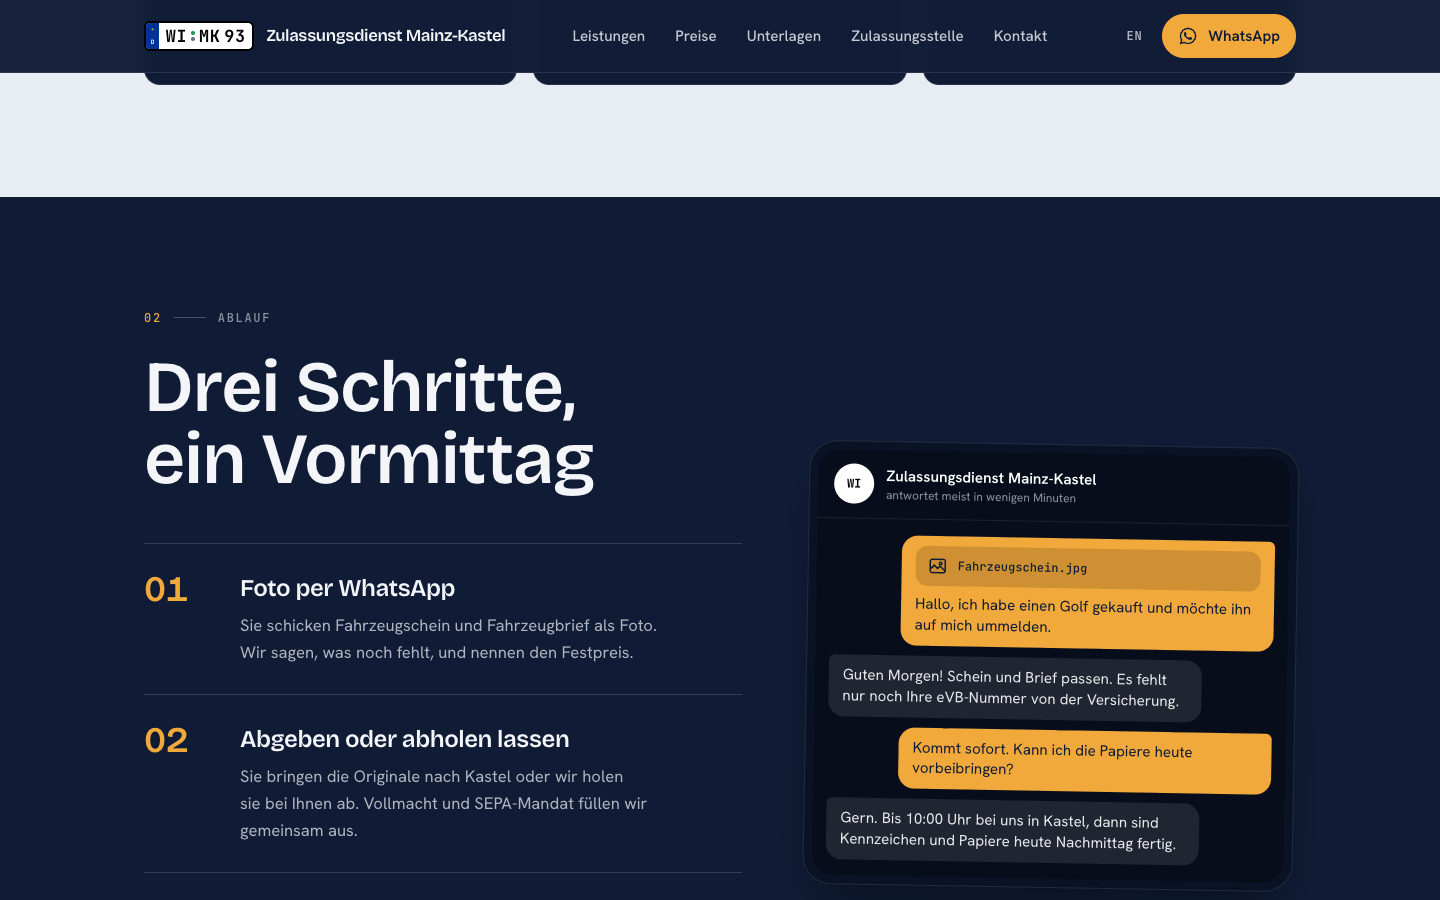
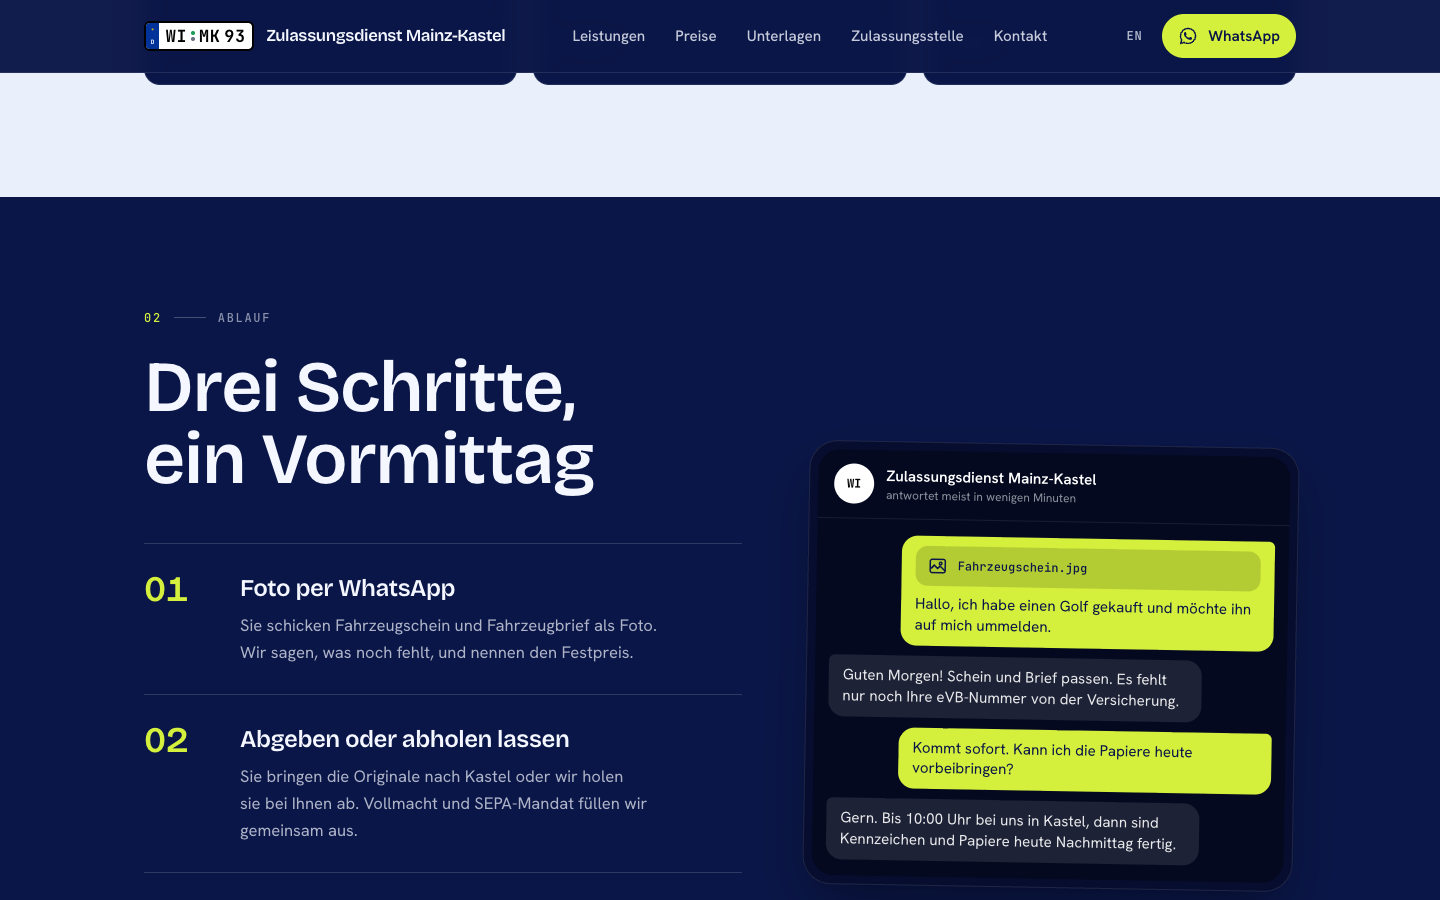
Switch colours to deep blue with a lime accent
Colouring taken from the Kelder reference: a deep blue that brightens to
royal blue in the hero, pale-blue light bands and lime-yellow for the main
buttons and highlights. The light on the 3D plate is now a cool white-blue
set by --plate-glow, so the plate keeps its true colours.

diff --git a/src/app/globals.css b/src/app/globals.css
@@ -3,18 +3,14 @@
   themes: false;
 }
 
-/* Palette "Mitternacht & Bernstein": two main colours and one accent.
-     dark   #101C36  midnight navy
-     light  #E8ECF3  a pale tone of the same blue (not white, not beige)
-     accent #F2A93B  amber
-   Every dark and light tone is the same blue hue at a different lightness, and amber is its
-   opposite on the colour wheel, so the set holds together. It also picks up the licence plate:
-   the navy sits with the plate's EU blue, the amber with its yellow stars.
-
+/* Palette "Tiefblau & Limette": two main colours and one accent.
+     dark   #0A1647  deep blue, brightening to royal blue in the hero
+     light  #E9F0FC  a pale tone of the same blue
+     accent #D4F03C  lime yellow
    The page alternates light and dark bands. Light is the default theme ("zmk").
    Any element with data-theme="zmk-dark" switches itself and everything inside it to the
-   dark set, so the same class names work in both. Amber is only used as a fill on dark,
-   where it reads clearly; on light bands the marks and buttons are navy.
+   dark set, so the same class names work in both. Lime is only used as a fill on dark,
+   where it reads clearly; on light bands the marks and buttons are blue.
    The three values are also in src/lib/site.ts for the share image. */
 @plugin "daisyui/theme" {
   name: "zmk";
@@ -22,26 +18,26 @@
   prefersdark: false;
   color-scheme: light;
 
-  --color-base-100: #e8ecf3; /* light band */
-  --color-base-200: #dce2ec; /* panels on a light band */
-  --color-base-300: #cbd3e0;
-  --color-base-content: #101c36;
-  --color-primary: #101c36; /* links, labels, small marks */
-  --color-primary-content: #f3f5f9;
-  --color-secondary: #f2a93b; /* amber highlight */
-  --color-secondary-content: #101c36;
-  --color-accent: #101c36; /* fill of the main action */
-  --color-accent-content: #f3f5f9;
-  --color-neutral: #101c36;
-  --color-neutral-content: #f3f5f9;
-  --color-info: #101c36;
-  --color-info-content: #f3f5f9;
-  --color-success: #101c36;
-  --color-success-content: #f3f5f9;
-  --color-warning: #f2a93b;
-  --color-warning-content: #101c36;
+  --color-base-100: #e9f0fc; /* light band */
+  --color-base-200: #dbe6f8; /* panels on a light band */
+  --color-base-300: #c8d8f1;
+  --color-base-content: #0a1647;
+  --color-primary: #1740c4; /* links, labels, small marks */
+  --color-primary-content: #f4f7ff;
+  --color-secondary: #d4f03c; /* lime highlight */
+  --color-secondary-content: #0a1647;
+  --color-accent: #1740c4; /* fill of the main action */
+  --color-accent-content: #f4f7ff;
+  --color-neutral: #0a1647;
+  --color-neutral-content: #f4f7ff;
+  --color-info: #1740c4;
+  --color-info-content: #f4f7ff;
+  --color-success: #1740c4;
+  --color-success-content: #f4f7ff;
+  --color-warning: #d4f03c;
+  --color-warning-content: #0a1647;
   --color-error: oklch(52% 0.2 27);
-  --color-error-content: #f3f5f9;
+  --color-error-content: #f4f7ff;
 
   --radius-selector: 1rem;
   --radius-field: 0.5rem;
@@ -62,26 +58,26 @@
   prefersdark: false;
   color-scheme: dark;
 
-  --color-base-100: #101c36; /* dark band */
-  --color-base-200: #1a2847; /* cards and panels on a dark band */
-  --color-base-300: #26365b;
-  --color-base-content: #f3f5f9;
-  --color-primary: #f2a93b;
-  --color-primary-content: #101c36;
-  --color-secondary: #f2a93b;
-  --color-secondary-content: #101c36;
-  --color-accent: #f2a93b;
-  --color-accent-content: #101c36;
-  --color-neutral: #0a1326; /* hero, footer, call-to-action: the deepest navy */
-  --color-neutral-content: #f3f5f9;
-  --color-info: #f2a93b;
-  --color-info-content: #101c36;
-  --color-success: #f2a93b;
-  --color-success-content: #101c36;
-  --color-warning: #f2a93b;
-  --color-warning-content: #101c36;
-  --color-error: oklch(72% 0.18 25);
-  --color-error-content: #101c36;
+  --color-base-100: #0a1647; /* dark band */
+  --color-base-200: #13235e; /* cards and panels on a dark band */
+  --color-base-300: #1d327a;
+  --color-base-content: #f4f7ff;
+  --color-primary: #d4f03c;
+  --color-primary-content: #0a1647;
+  --color-secondary: #d4f03c;
+  --color-secondary-content: #0a1647;
+  --color-accent: #d4f03c;
+  --color-accent-content: #0a1647;
+  --color-neutral: #060d2e; /* footer and the top of the hero: the deepest blue */
+  --color-neutral-content: #f4f7ff;
+  --color-info: #d4f03c;
+  --color-info-content: #0a1647;
+  --color-success: #d4f03c;
+  --color-success-content: #0a1647;
+  --color-warning: #d4f03c;
+  --color-warning-content: #0a1647;
+  --color-error: oklch(74% 0.17 25);
+  --color-error-content: #0a1647;
 
   --radius-selector: 1rem;
   --radius-field: 0.5rem;
@@ -94,6 +90,11 @@
 
   --depth: 0;
   --noise: 0;
+}
+
+/* Light on and behind the 3D plate: a cool white-blue, so the plate keeps its true colours. */
+:root {
+  --plate-glow: #9cc0ff;
 }
 
 @theme inline {
@@ -201,12 +202,11 @@ summary {
   }
 }
 
-/* The dark hero ground: two soft lights and a fine grid that drifts slowly. */
+/* The dark hero ground: deep blue brightening downward, and a fine grid that drifts slowly. */
 .hero-ground {
   background:
-    radial-gradient(64rem 36rem at 80% -8%, color-mix(in oklch, var(--color-secondary) 30%, transparent), transparent 62%),
-    radial-gradient(40rem 26rem at 4% 108%, color-mix(in oklch, #3d6bff 22%, transparent), transparent 60%),
-    var(--color-neutral);
+    radial-gradient(70rem 30rem at 50% 118%, rgb(120 170 255 / 0.5), transparent 68%),
+    linear-gradient(180deg, #050b2b 0%, #0a1b63 46%, #1846c9 100%);
 }
 
 .hero-grid {

diff --git a/src/components/hero/PlateScene.tsx b/src/components/hero/PlateScene.tsx
@@ -81,8 +81,9 @@ export default function PlateScene({ spec, flipKey, accent, onReady, onFail }: P
       }
 
       const reduceMotion = window.matchMedia("(prefers-reduced-motion: reduce)").matches;
-      // The light on the plate follows the theme's accent where it is a plain hex colour.
-      const themeAccent = getComputedStyle(el).getPropertyValue("--color-secondary").trim();
+      // The light on the plate comes from the theme: --plate-glow if set, else the accent.
+      const style = getComputedStyle(el);
+      const themeAccent = (style.getPropertyValue("--plate-glow") || style.getPropertyValue("--color-secondary")).trim();
       if (/^#[0-9a-f]{3,8}$/i.test(themeAccent)) latest.current.accent = themeAccent;
       const coarse = window.matchMedia("(pointer: coarse)").matches;
 

diff --git a/src/lib/site.ts b/src/lib/site.ts
@@ -17,10 +17,10 @@ export const site = {
   name: "Zulassungsdienst Mainz-Kastel",
   shortName: "Zulassungsdienst Kastel",
   /**
-   * Brand colours, palette "Mitternacht & Bernstein": navy and pale-blue bands in turn, amber accent.
+   * Brand colours, palette "Tiefblau & Limette": deep-blue and pale-blue bands in turn, lime accent.
    * The theme in src/app/globals.css sets the same three values; change both together.
    */
-  colors: { dark: "#101C36", light: "#E8ECF3", accent: "#F2A93B" },
+  colors: { dark: "#0A1647", light: "#E9F0FC", accent: "#D4F03C" },
 
   /** Letters shown on the licence-plate logo. */
   plate: { district: "WI", letters: "MK", digits: "93" },

diff --git a/src/components/ui.tsx b/src/components/ui.tsx
@@ -47,7 +47,7 @@ export function PinIcon({ className = "size-5" }: IconProps) {
 
 /* ---------- Contact actions: the only two ways to reach the business ---------- */
 
-// The main action (WhatsApp): amber on dark bands, navy on light ones (see the two themes).
+// The main action (WhatsApp): lime on dark bands, blue on light ones (see the two themes).
 const WA_GREEN = "bg-accent text-accent-content hover:brightness-95 focus-visible:outline-accent";
 
 export function WhatsAppButton({

diff --git a/src/app/(en)/en/[[...slug]]/page.tsx b/src/app/(en)/en/[[...slug]]/page.tsx
@@ -3,7 +3,7 @@ import { pageMetadata, RenderPage, staticParams } from "../../../render";
 
 export const dynamicParams = false;
 
-export const viewport: Viewport = { themeColor: "#101c36", colorScheme: "light" };
+export const viewport: Viewport = { themeColor: "#0a1647", colorScheme: "light" };
 
 export function generateStaticParams() {
   return staticParams("en");

diff --git a/src/app/(de)/[[...slug]]/page.tsx b/src/app/(de)/[[...slug]]/page.tsx
@@ -3,7 +3,7 @@ import { pageMetadata, RenderPage, staticParams } from "../../render";
 
 export const dynamicParams = false;
 
-export const viewport: Viewport = { themeColor: "#101c36", colorScheme: "light" };
+export const viewport: Viewport = { themeColor: "#0a1647", colorScheme: "light" };
 
 export function generateStaticParams() {
   return staticParams("de");

diff --git a/README.md b/README.md
@@ -16,7 +16,7 @@ Built with Next.js (App Router), Tailwind CSS 4 and daisyUI 5. Every page is gen
 | Guides (registration office, Kastel/Kostheim, costs, documents) | `src/content/pages/guides.ts` |
 | Prices page, contact page | `src/content/pages/core.ts` |
 | Impressum and Datenschutz | `src/content/pages/legal.ts` |
-| Colours (palette "Mitternacht & Bernstein": dark `#101C36`, light `#E8ECF3`, accent `#F2A93B`; dark bands are marked with `data-theme="zmk-dark"`) | `src/app/globals.css` and `colors` in `src/lib/site.ts`, both together |
+| Colours (palette "Tiefblau & Limette": dark `#0A1647`, light `#E9F0FC`, accent `#D4F03C`; dark bands are marked with `data-theme="zmk-dark"`) | `src/app/globals.css` and `colors` in `src/lib/site.ts`, both together |
 | Fonts | `src/app/render.tsx` |
 
 Values marked `TODO owner` in `src/lib/site.ts` are still missing. Missing Impressum details show up
